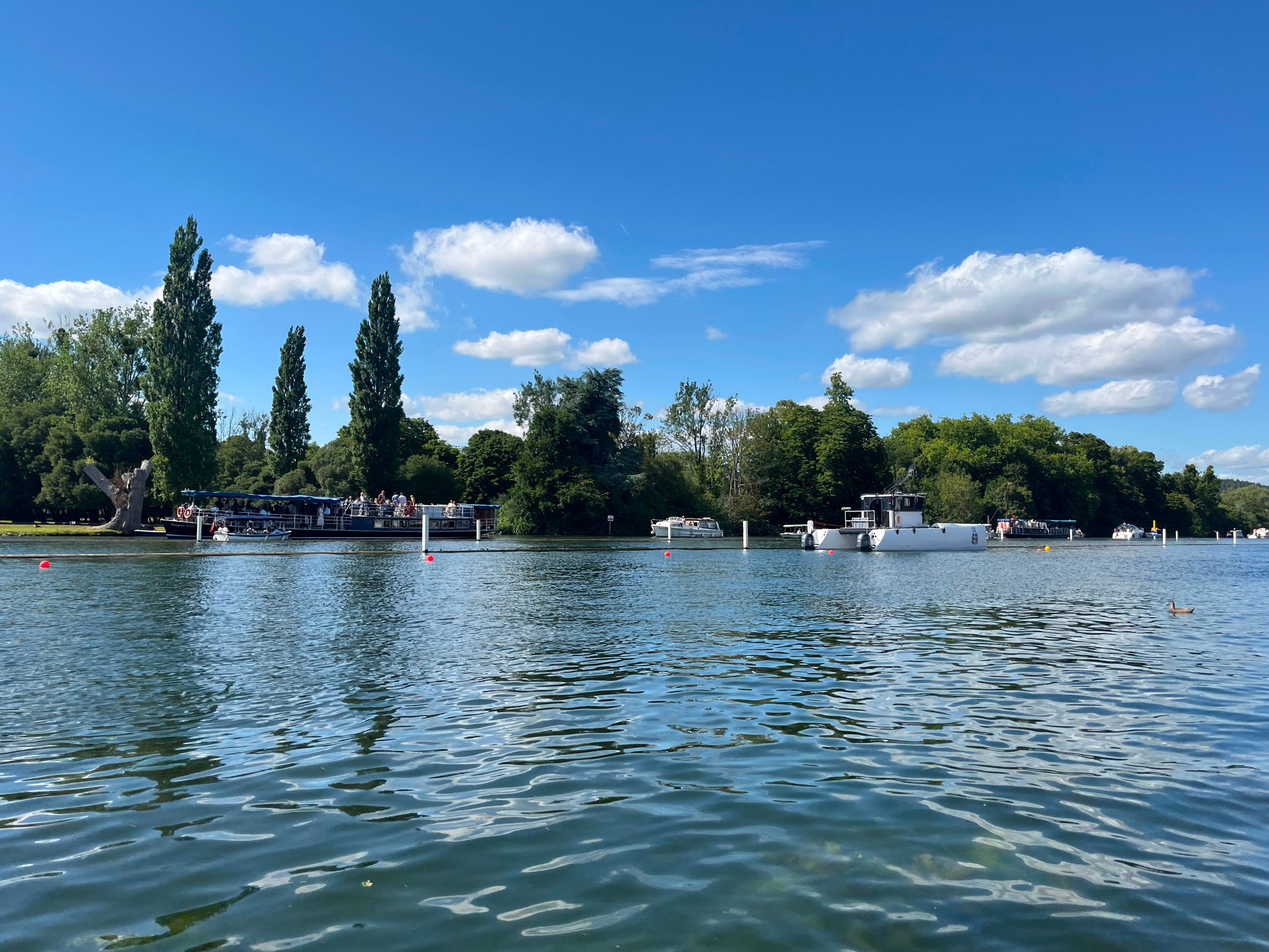
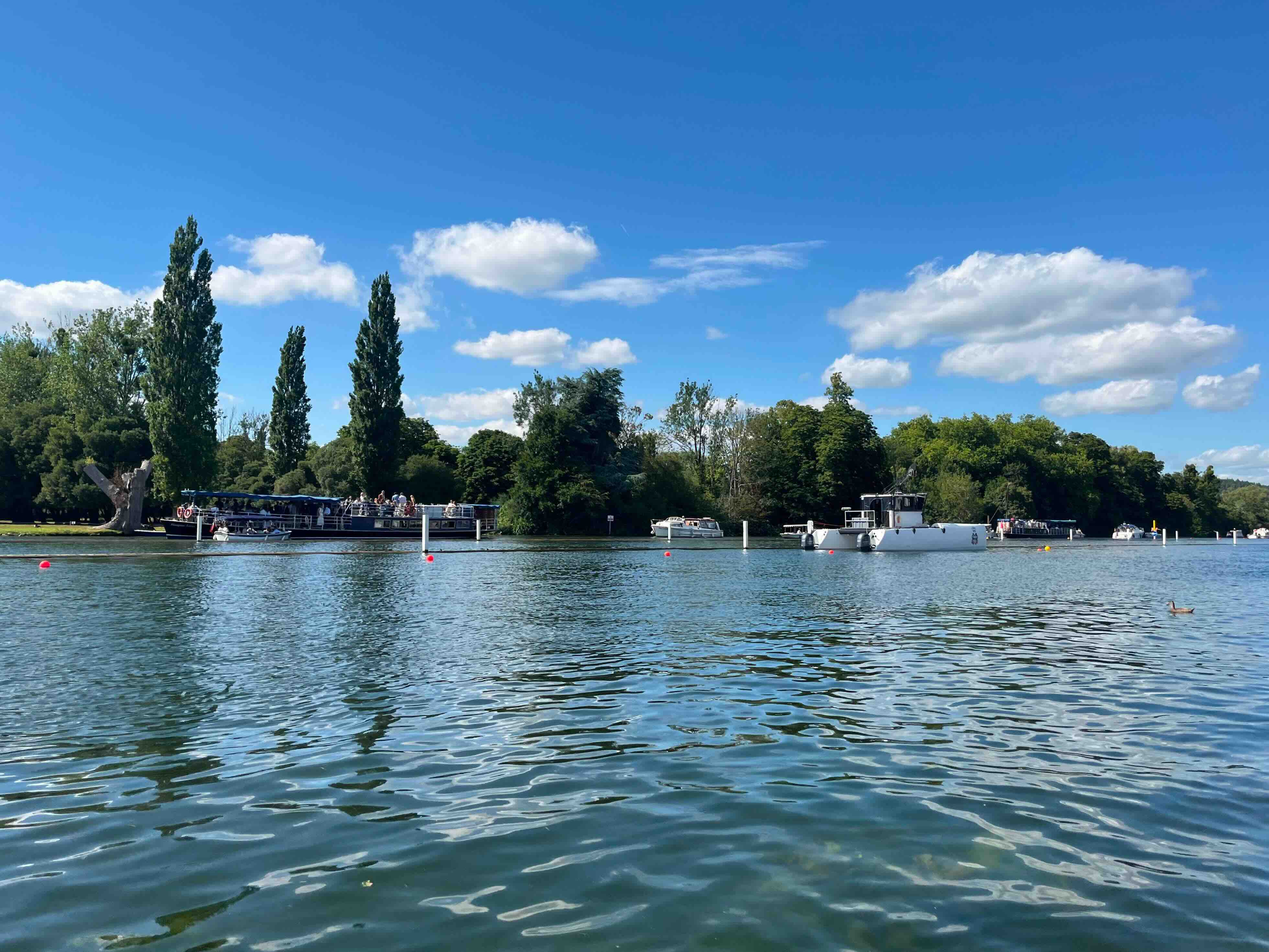
smaller image

diff --git a/src/articles/test 2.jsx b/src/articles/test 2.jsx
@@ -1,0 +1,53 @@
+import { useParams, Link } from 'react-router-dom'
+import './Article.css'
+
+// Article content - add your essays here
+const articles = {
+  'test': {
+    title: 'Test',
+    date: 'June 2020',
+    content: `
+      <p>Test</p> 
+      `
+    }
+}
+
+function Article() {
+  const { slug } = useParams()
+  const article = articles[slug]
+
+  if (!article) {
+    return (
+      <main className="article">
+        <div className="article-container">
+          <p>Article not found.</p>
+          <Link to="/" className="back-link">← Back home</Link>
+        </div>
+      </main>
+    )
+  }
+
+  return (
+    <main className="article">
+      <div className="article-container">
+        <Link to="/" className="back-link">← Back home</Link>
+        
+        <header className="article-header">
+          <h1>{article.title}</h1>
+          <time>{article.date}</time>
+        </header>
+
+        <article 
+          className="article-content"
+          dangerouslySetInnerHTML={{ __html: article.content }}
+        />
+
+        <footer className="article-footer">
+          <Link to="/" className="back-link">← Back home</Link>
+        </footer>
+      </div>
+    </main>
+  )
+}
+
+export default Article
